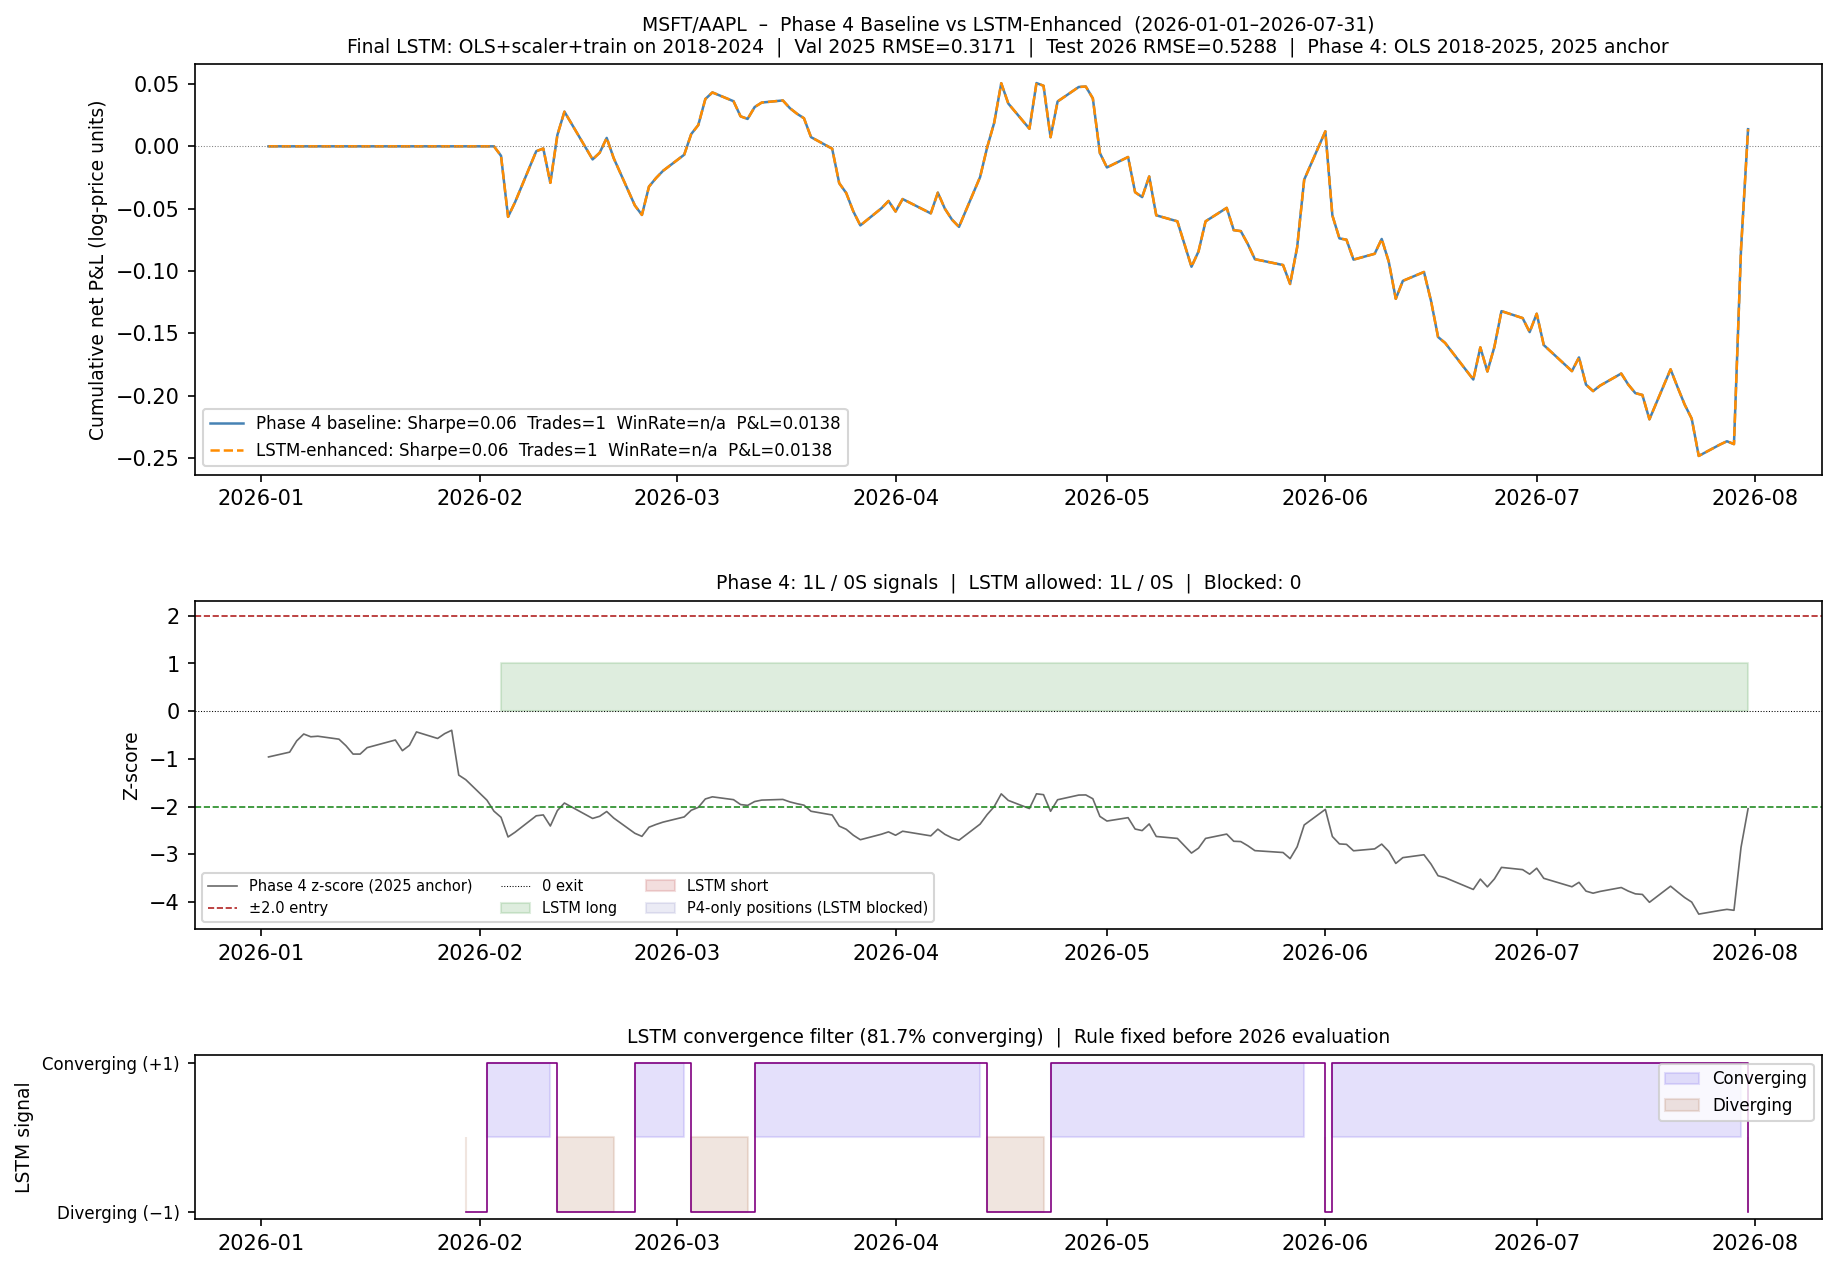
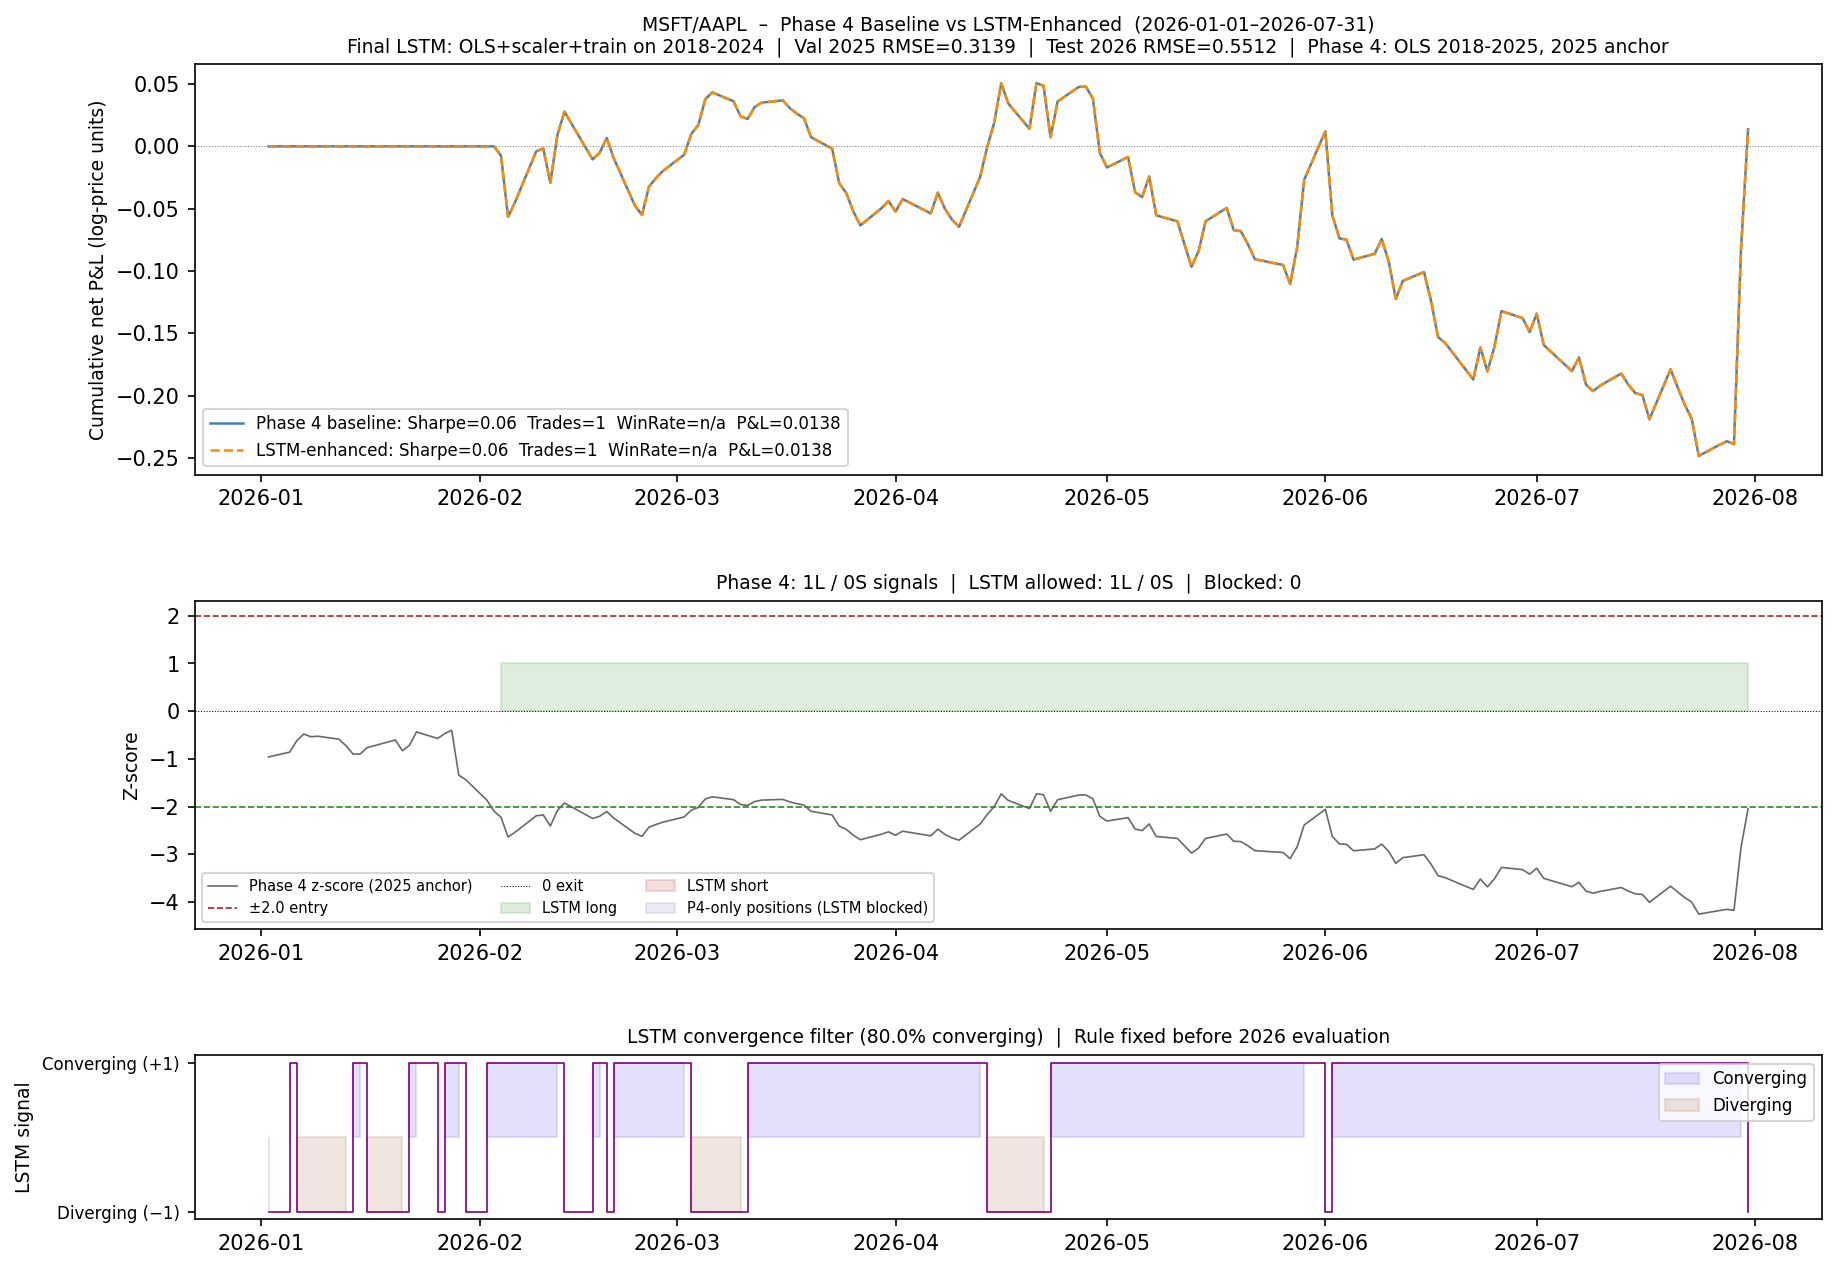
Fix 2026 warm-up gap, missing-prediction default, add Completed_trades
Four corrections to run_phase5_final_2026; no changes to architecture,
convergence rule, thresholds, Phase 4 methodology, or Phases 1-4.

1. Warm-up fix (main bug):
   Warmup length changed from SEQ_LEN (20) to ROLLING_STD_WIN + SEQ_LEN - 1
   (39 bars).  Previously, sequences were built on the 2026-only feature
   slice, so the first SEQ_LEN-1 = 19 trading days of 2026 had no LSTM
   prediction.  Now sequences are built on the full warmup+2026 feature
   frame and signal dates are filtered to >= 2026-01-01 AFTER construction,
   giving predictions from the very first 2026 bar.  Applied to both the
   RMSE/MAE evaluation and the convergence inference path.

2. Missing-prediction default changed from -1 (block) to +1 (allow):
   conv_dict.get(signal_date, -1) -> conv_dict.get(signal_date, 1) in
   backtest_lstm_enhanced and count_signals_lstm_gated.  Missing forecast
   coverage no longer silently blocks a trade.  After the warm-up fix there
   are no missing predictions for 2026, but the default is now explicit.

3. Verification step added (item 7):
   After Phase 4 signal counting, all Phase 4 candidate signal dates are
   checked against conv_dict_f.  Prints a confirmation or a WARNING if any
   are missing.

4. Completed_trades added:
   compute_win_rate now returns (win_rate_pct, n_completed, trade_pnl_list).
   n_completed (denominator of win rate) is printed in the comparison table
   and written to the 2026_comparison.csv and cross-pair summary.
[…]

Changed region(s): [[0.1551, 0.8298, 0.3723, 0.9527], [0.4034, 0.8298, 0.4344, 0.9527]]

diff --git a/src/phase5_ml_spread.py b/src/phase5_ml_spread.py
@@ -323,21 +323,22 @@ def compute_win_rate(bt_df, cost_per_leg=COST_PER_LEG):
     Uses phase3_strategy.extract_trade_log so the trade boundary logic is
     consistent with Phase 3b.  Incomplete trades (position open at end of
     data) are excluded from the win rate denominator.
-    Returns (win_rate_pct, trade_pnl_list).
+    Returns (win_rate_pct, n_completed, trade_pnl_list).
+    n_completed is the denominator used for win_rate_pct.
     """
     trade_df = extract_trade_log(bt_df, cost_per_leg)
     if trade_df.empty:
-        return 0.0, []
+        return 0.0, 0, []
     # Only count completed trades: those with an Exit_Date before the last bar
     last_bar = bt_df.index[-1]
     completed = trade_df[pd.to_datetime(trade_df["Exit_Date"]) < last_bar]
     if completed.empty:
         # All trades still open — no completed trades to assess
-        return float("nan"), []
+        return float("nan"), 0, []
     trade_pnls = completed["Net_PnL"].tolist()
     wins       = sum(1 for p in trade_pnls if p > 0)
     win_rate   = wins / len(trade_pnls) * 100
-    return round(win_rate, 1), trade_pnls
+    return round(win_rate, 1), len(trade_pnls), trade_pnls
 
 
 # ---------------------------------------------------------------------------
@@ -448,10 +449,12 @@ def backtest_lstm_enhanced(zscore_series, spread_cl, spread_op, conv_dict,
             trade_cost[i] += 2 * cost_per_leg
             pos = 0
 
-        # Entry gated by LSTM convergence (no stop-loss guard needed; no stop)
+        # Entry gated by LSTM convergence (no stop-loss guard needed; no stop).
+        # Default to 1 (allow) when no prediction exists for this signal date
+        # so missing coverage never silently blocks a trade.
         if pos == 0:
             signal_date = dates[i - 1]
-            if conv_dict.get(signal_date, -1) == 1:
+            if conv_dict.get(signal_date, 1) == 1:
                 if z_prev < -z_entry:
                     trade_cost[i] += 2 * cost_per_leg
                     pos = 1
@@ -922,19 +925,33 @@ def run_phase5_final_2026(dep, indep, tests_passed):
     sp_2026_f   = build_raw_spread(log_close_2026, dep, indep, hr_f, ic_f)
     z_2026_f    = (sp_2026_f - mu_f) / sigma_f
 
-    # Use last SEQ_LEN bars of 2025 as warmup so rolling/lag features
-    # are populated for the earliest 2026 bars
-    warmup_z     = z_pre26.iloc[-SEQ_LEN:]
-    z_combo      = pd.concat([warmup_z, z_2026_f])
-    feat_combo   = build_features(z_combo).dropna()
-    feat_2026_f  = feat_combo.loc[feat_combo.index >= P4_TEST_START]
+    # Warm-up: prepend ROLLING_STD_WIN + SEQ_LEN - 1 pre-2026 z_std bars.
+    # This ensures:
+    #   (a) rolling/lag features are fully populated at the very first 2026 bar
+    #       (ROLLING_STD_WIN - 1 pre-2026 bars needed for roll_std to be valid),
+    #   (b) there are SEQ_LEN valid pre-2026 feature rows so the LSTM can form
+    #       a complete input window ending at the first 2026 bar — giving
+    #       predictions from day 1 of 2026 onward.
+    # Sequences are built on the FULL combined feature frame; signal dates are
+    # filtered to >= P4_TEST_START only AFTER sequence construction.
+    WARMUP_LEN = ROLLING_STD_WIN + SEQ_LEN - 1   # 20 + 20 - 1 = 39 bars
+    warmup_z   = z_pre26.iloc[-WARMUP_LEN:]
+    z_combo    = pd.concat([warmup_z, z_2026_f])
+    feat_combo = build_features(z_combo).dropna()
 
-    if len(feat_2026_f) < SEQ_LEN + HORIZON:
+    # Sanity check: at least HORIZON 2026 rows required for y labels
+    feat_2026_check = feat_combo.loc[feat_combo.index >= P4_TEST_START]
+    if len(feat_2026_check) < HORIZON:
         print("  WARNING: insufficient 2026 feature rows for sequences.")
         return None
 
-    # RMSE/MAE on 2026: build full sequences (needs HORIZON future bars)
-    X_te_f, y_te_f, idx_te_f = make_sequences(feat_2026_f)
+    # RMSE/MAE evaluation: build sequences on full feat_combo, then keep only
+    # those whose signal date falls inside 2026.
+    X_te_all, y_te_all, idx_te_all = make_sequences(feat_combo)
+    mask_te  = idx_te_all >= pd.Timestamp(P4_TEST_START)
+    X_te_f   = X_te_all[mask_te]
+    y_te_f   = y_te_all[mask_te]
+    idx_te_f = idx_te_all[mask_te]
     y_pred_f = model_f.predict(X_te_f, verbose=0)
     eval_f   = evaluate_predictions(y_te_f, y_pred_f)
 
@@ -998,9 +1015,14 @@ def run_phase5_final_2026(dep, indep, tests_passed):
 
     # ------------------------------------------------------------------
     # 7. Convergence signal for 2026 (inference only — no y labels needed)
+    #    Build on full feat_combo (same warm-up rationale as RMSE eval above),
+    #    then filter signal dates to 2026 after sequence construction.
     # ------------------------------------------------------------------
-    X_inf_f, idx_inf_f = make_sequences_infer(feat_2026_f)
-    y_pred_inf         = model_f.predict(X_inf_f, verbose=0)
+    X_inf_all, idx_inf_all = make_sequences_infer(feat_combo)
+    mask_inf   = idx_inf_all >= pd.Timestamp(P4_TEST_START)
+    X_inf_f    = X_inf_all[mask_inf]
+    idx_inf_f  = idx_inf_all[mask_inf]
+    y_pred_inf = model_f.predict(X_inf_f, verbose=0)
     pred_df_inf        = pd.DataFrame(
         {f"h{h+1}": y_pred_inf[:, h] for h in range(HORIZON)},
         index=idx_inf_f)
@@ -1035,10 +1057,23 @@ def run_phase5_final_2026(dep, indep, tests_passed):
 
     bt_p4 = backtest_phase4_style(z_2026_p4, sp_2026_p4, sp_op_p4, COST_PER_LEG)
     m_p4  = compute_metrics(bt_p4, label=f"{tag} P4 2026")
-    wr_p4, tpnl_p4 = compute_win_rate(bt_p4, COST_PER_LEG)
+    wr_p4, n_comp_p4, tpnl_p4 = compute_win_rate(bt_p4, COST_PER_LEG)
 
     # Phase 4 signal breakdown
     n_long_p4, n_short_p4, _, long_p4, short_p4 = count_signals(z_2026_p4)
+
+    # Verify every Phase 4 candidate signal has an LSTM prediction
+    p4_signal_dates = [pd.Timestamp(s["Signal_Date"])
+                       for s in long_p4 + short_p4]
+    missing_pred = [d for d in p4_signal_dates if d not in conv_dict_f]
+    if missing_pred:
+        print(f"  WARNING: {len(missing_pred)} Phase 4 signal date(s) lack an "
+              f"LSTM prediction: {[str(d.date()) for d in missing_pred]}")
+    else:
+        n_p4_sigs = len(p4_signal_dates)
+        print(f"  Verification: all {n_p4_sigs} Phase 4 signal date(s) have "
+              f"LSTM predictions" if n_p4_sigs else
+              f"  Verification: no Phase 4 signals fired in 2026")
 
     # ------------------------------------------------------------------
     # 9. LSTM-enhanced — same Phase 4 z-score signals, entries gated by
@@ -1048,7 +1083,7 @@ def run_phase5_final_2026(dep, indep, tests_passed):
         z_2026_p4, sp_2026_p4, sp_op_p4, conv_dict_f,
         Z_ENTRY_P4, Z_EXIT_P4, COST_PER_LEG)
     m_lstm  = compute_metrics(bt_lstm, label=f"{tag} LSTM+P4 2026")
-    wr_lstm, tpnl_lstm = compute_win_rate(bt_lstm, COST_PER_LEG)
+    wr_lstm, n_comp_lstm, tpnl_lstm = compute_win_rate(bt_lstm, COST_PER_LEG)
 
     n_long_lstm, n_short_lstm, _, long_lstm, short_lstm = \
         count_signals_lstm_gated(z_2026_p4, conv_dict_f)
@@ -1078,12 +1113,14 @@ def run_phase5_final_2026(dep, indep, tests_passed):
         fmt_b = f"{vb:.4f}" if isinstance(vb, float) else str(vb)
         fmt_l = f"{vl:.4f}" if isinstance(vl, float) else str(vl)
         print(row_fmt.format(label, fmt_b, fmt_l))
-    # Win rate
+    # Win rate + completed-trade count (denominator)
     wr_p4_s   = f"{wr_p4:.1f}%" if not (isinstance(wr_p4, float) and
                                           np.isnan(wr_p4)) else "n/a"
     wr_lstm_s = f"{wr_lstm:.1f}%" if not (isinstance(wr_lstm, float) and
                                            np.isnan(wr_lstm)) else "n/a"
     print(row_fmt.format("Completed-trade win rate", wr_p4_s, wr_lstm_s))
+    print(row_fmt.format("Completed trades (denom.)",
+                         str(n_comp_p4), str(n_comp_lstm)))
     print()
     print(f"    Signal counts:")
     blocked = (n_long_p4 + n_short_p4) - (n_long_lstm + n_short_lstm)
@@ -1105,6 +1142,9 @@ def run_phase5_final_2026(dep, indep, tests_passed):
         for key, _ in REPORT_KEYS
     ]
     cmp_rows += [
+        {"Pair": f"{dep}/{indep}", "Metric": "Completed_trades",
+         "Phase4_baseline": n_comp_p4,
+         "LSTM_enhanced":   n_comp_lstm},
         {"Pair": f"{dep}/{indep}", "Metric": "Win_rate_pct",
          "Phase4_baseline": round(wr_p4, 2) if not np.isnan(wr_p4) else None,
          "LSTM_enhanced":   round(wr_lstm, 2) if not np.isnan(wr_lstm) else None},
@@ -1230,16 +1270,18 @@ def run_phase5_final_2026(dep, indep, tests_passed):
         "P4_Trades":   m_p4.get("Num_trades"),
         "P4_PnL":      m_p4.get("Total_PnL"),
         "P4_MaxDD":    m_p4.get("Max_drawdown"),
-        "P4_WinRate":  round(wr_p4, 1) if not np.isnan(wr_p4) else None,
-        "P4_AvgTrade": m_p4.get("Avg_trade_PnL"),
-        "P4_InMkt":    m_p4.get("Pct_in_market"),
-        "LSTM_Sharpe": m_lstm.get("Sharpe_ratio"),
-        "LSTM_Trades": m_lstm.get("Num_trades"),
-        "LSTM_PnL":    m_lstm.get("Total_PnL"),
-        "LSTM_MaxDD":  m_lstm.get("Max_drawdown"),
-        "LSTM_WinRate": round(wr_lstm, 1) if not np.isnan(wr_lstm) else None,
-        "LSTM_AvgTrade": m_lstm.get("Avg_trade_PnL"),
-        "LSTM_InMkt":  m_lstm.get("Pct_in_market"),
+        "P4_WinRate":        round(wr_p4, 1) if not np.isnan(wr_p4) else None,
+        "P4_CompletedTrades": n_comp_p4,
+        "P4_AvgTrade":       m_p4.get("Avg_trade_PnL"),
+        "P4_InMkt":          m_p4.get("Pct_in_market"),
+        "LSTM_Sharpe":       m_lstm.get("Sharpe_ratio"),
+        "LSTM_Trades":       m_lstm.get("Num_trades"),
+        "LSTM_PnL":          m_lstm.get("Total_PnL"),
+        "LSTM_MaxDD":        m_lstm.get("Max_drawdown"),
+        "LSTM_WinRate":      round(wr_lstm, 1) if not np.isnan(wr_lstm) else None,
+        "LSTM_CompletedTrades": n_comp_lstm,
+        "LSTM_AvgTrade":     m_lstm.get("Avg_trade_PnL"),
+        "LSTM_InMkt":        m_lstm.get("Pct_in_market"),
     }
 
 
@@ -1272,7 +1314,9 @@ def count_signals_lstm_gated(z_series, conv_dict,
             pos = 0
         if pos == 0:
             signal_date = dates[i - 1]
-            if conv_dict.get(signal_date, -1) == 1:
+            # Default to 1 (allow) when no prediction exists so missing
+            # coverage never silently blocks a trade.
+            if conv_dict.get(signal_date, 1) == 1:
                 if z_prev < -z_entry:
                     long_entries.append({
                         "Execution_Date": str(dates[i].date()),
